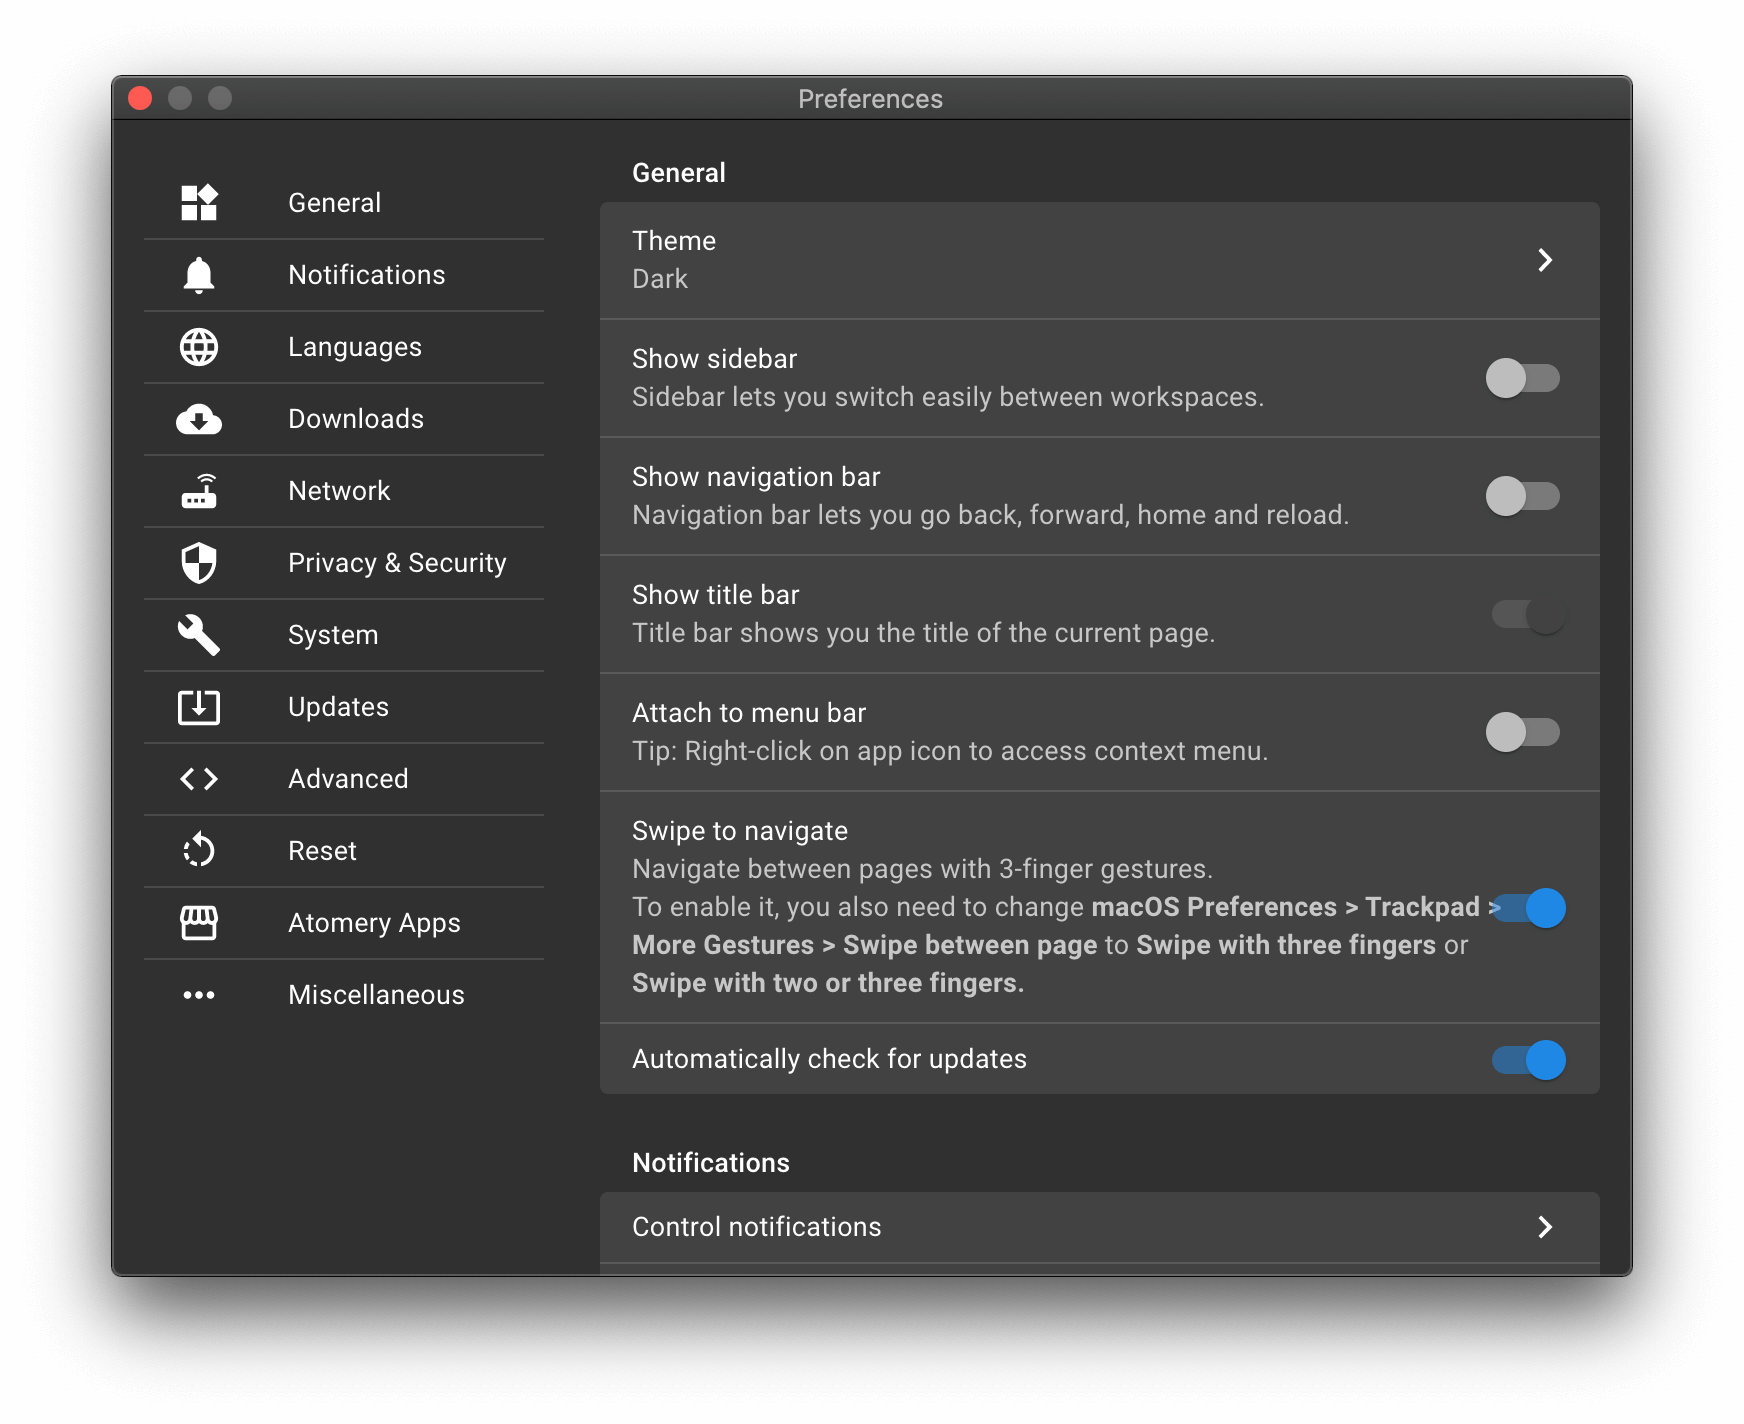
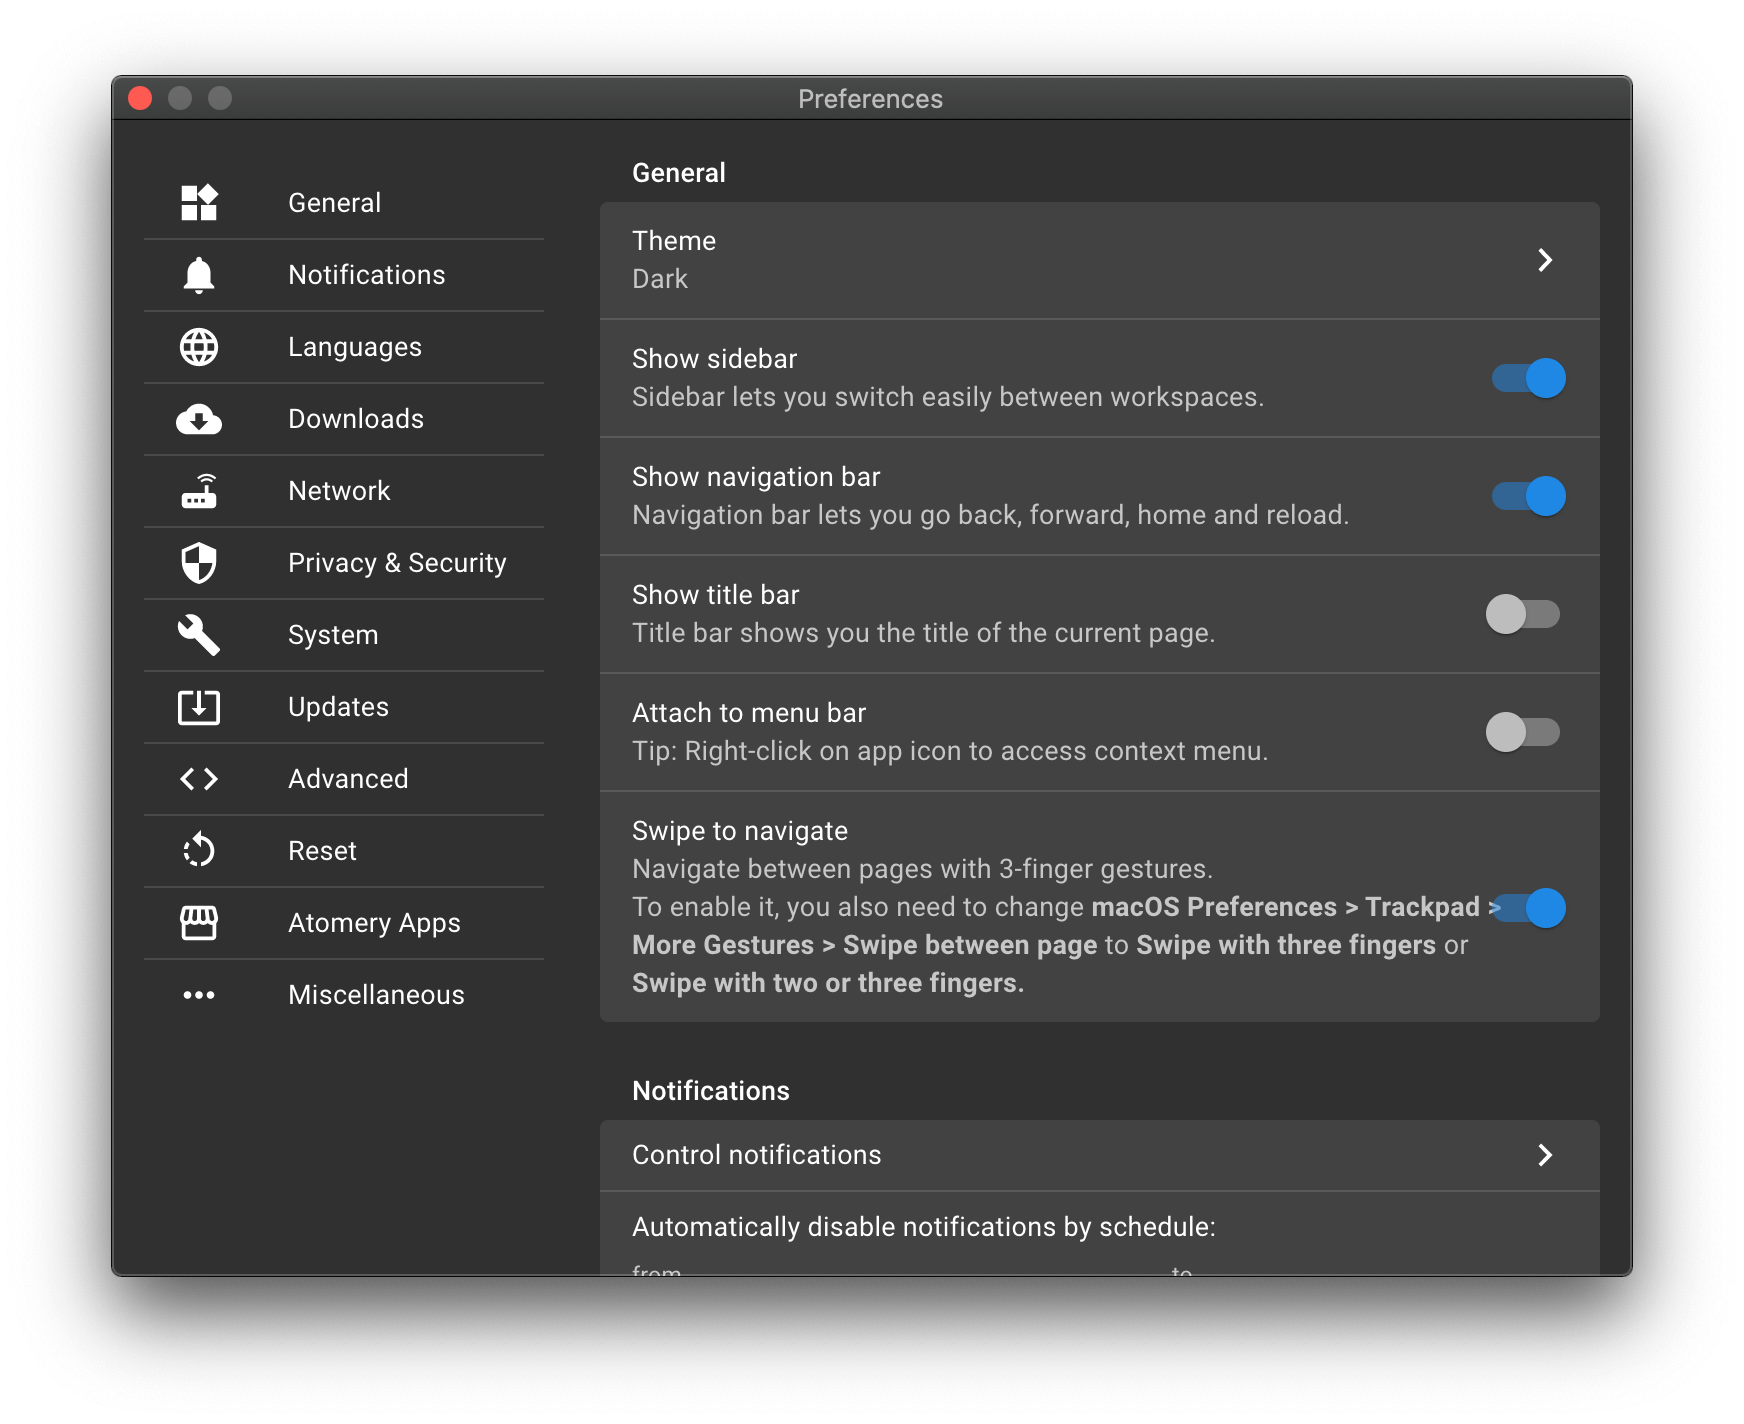
20.0.4

diff --git a/template/src/components/dialog-preferences/index.js b/template/src/components/dialog-preferences/index.js
@@ -407,20 +407,6 @@ const Preferences = ({
                 </ListItem>
               </>
             )}
-            <Divider />
-            <ListItem>
-              <ListItemText primary="Automatically check for updates" />
-              <ListItemSecondaryAction>
-                <Switch
-                  edge="end"
-                  color="primary"
-                  checked={autoCheckForUpdates}
-                  onChange={(e) => {
-                    requestSetPreference('autoCheckForUpdates', e.target.checked);
-                  }}
-                />
-              </ListItemSecondaryAction>
-            </ListItem>
           </List>
         </Paper>
 
@@ -742,6 +728,20 @@ const Preferences = ({
                 primary="Check for Updates"
               />
               <ChevronRightIcon color="action" />
+            </ListItem>
+            <Divider />
+            <ListItem>
+              <ListItemText primary="Check for updates automatically" />
+              <ListItemSecondaryAction>
+                <Switch
+                  edge="end"
+                  color="primary"
+                  checked={autoCheckForUpdates}
+                  onChange={(e) => {
+                    requestSetPreference('autoCheckForUpdates', e.target.checked);
+                  }}
+                />
+              </ListItemSecondaryAction>
             </ListItem>
           </List>
         </Paper>

diff --git a/src/components/pages/preferences/index.js b/src/components/pages/preferences/index.js
@@ -694,21 +694,6 @@ const Preferences = ({
                 <ChevronRightIcon color="action" />
               </ListItem>
               <Divider />
-              <ListItem
-                button
-                onClick={() => requestCheckForUpdates(false)}
-                disabled={updaterStatus === 'checking-for-update'
-                  || updaterStatus === 'download-progress'
-                  || updaterStatus === 'download-progress'
-                  || updaterStatus === 'update-available'}
-              >
-                <ListItemText
-                  primary={updaterStatus === 'update-downloaded' ? 'Restart to Apply Updates' : 'Check for Updates'}
-                  secondary={getUpdaterDesc(updaterStatus, updaterInfo)}
-                />
-                <ChevronRightIcon color="action" />
-              </ListItem>
-              <Divider />
               <ListItem button onClick={requestQuit}>
                 <ListItemText primary="Quit" />
                 <ChevronRightIcon color="action" />

diff --git a/src/components/shared/no-connection.js b/src/components/shared/no-connection.js
@@ -14,7 +14,7 @@ const styles = (theme) => ({
     flexDirection: 'column',
     height: '100%',
     width: '100%',
-    color: theme.palette.text.disabled,
+    color: theme.palette.text.primary,
   },
   icon: {
     height: 64,
@@ -33,7 +33,7 @@ const NoConnection = (props) => {
 
   return (
     <div className={classes.root}>
-      <ErrorIcon className={classes.icon} color="disabled" />
+      <ErrorIcon className={classes.icon} color="textPrimary" />
       <br />
       <Typography
         color="inherit"

diff --git a/src/components/shared/empty-state.js b/src/components/shared/empty-state.js
@@ -11,7 +11,7 @@ const styles = (theme) => ({
     flex: 1,
     flexDirection: 'column',
     width: '100%',
-    color: theme.palette.text.disabled,
+    color: theme.palette.text.primary,
   },
   title: {
     marginBottom: 8,
@@ -34,7 +34,7 @@ const EmptyState = (props) => {
 
   return (
     <div className={classes.root}>
-      <Icon className={classes.icon} color="disabled" />
+      <Icon className={classes.icon} color="textPrimary" />
       <br />
       {title && (
         <Typography

diff --git a/src/components/pages/home/index.js b/src/components/pages/home/index.js
@@ -123,6 +123,7 @@ class Home extends React.Component {
                 <Typography
                   variant="subtitle1"
                   align="left"
+                  color="textPrimary"
                 >
                   Search results for&nbsp;
                   <b>{currentQuery}</b>
